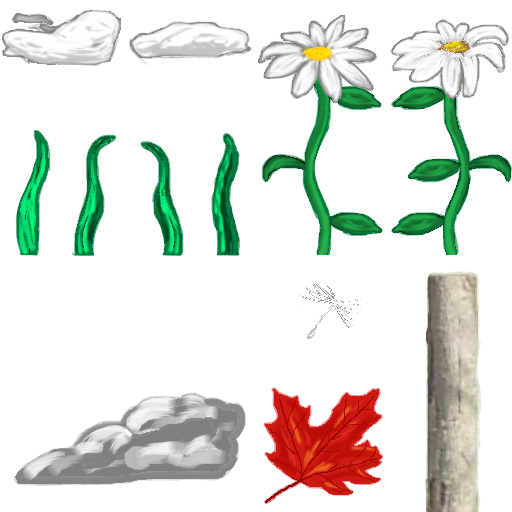
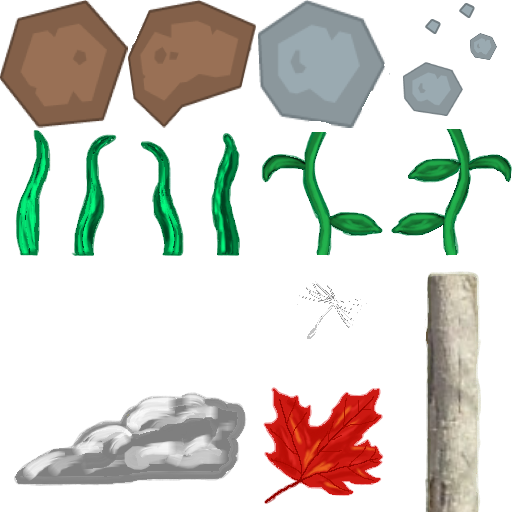
Changed some Tiles/scrolling stuff

Changed region(s): [[0.0, 0.0, 1.0, 0.2812]]

diff --git a/spacewar.cpp b/spacewar.cpp
@@ -185,9 +185,9 @@ void Spacewar::update()
 	
 //==================================================================================================================
 	// SCROLLING STUFF
-	if (mapY >= ScreenTileY) // RECURRING SCROLLING
+	if (mapY >= GAME_HEIGHT) // RECURRING SCROLLING
 	{
-		mapY = -TEXTURE_SIZE*MAP_HEIGHT;
+		mapY = -TEXTURE_SIZE*MAP_HEIGHT-128;
 	}
 	//						Vertical "Scrolling"
 	shipy = ship1.getY();
@@ -196,7 +196,7 @@ void Spacewar::update()
 		ship1.setY(GAME_HEIGHT/2 -1);	// Checks ship at about half GAME_HEIGHT
 		if (input->isKeyDown(VK_UP))	// Checks MovementKey(UP) pressed
 		{
-			mapY -= ship1.getVelocity().y * frameTime;	// Scroll at fastest speed
+			mapY -= ship1.getVelocity().y * frameTime*3;	// Scroll at fastest speed
 		}
 		else	// If NOT pressing UP while at about half GAME_HEIGHT
 		{
@@ -269,7 +269,23 @@ void Spacewar::render()
 {
     graphics->spriteBegin();                // begin drawing sprites
 
-    background.draw();                          // add the to the scene
+	//==================================================================================================================
+	// DRAW "TILES"
+	for (int col = 0; col < MAP_WIDTH; col++)       // for each column of map
+	{
+		tile.setX((float)(col * TEXTURE_SIZE)); // set tile X
+		for (int row = 0; row < MAP_HEIGHT; row++)    // for each row of map
+		{
+			if (tileMap[row][col] >= 0)          // if tile present
+			{
+				tile.setCurrentFrame(tileMap[row][col]);    // set tile texture
+				tile.setY((float)(row * TEXTURE_SIZE) + mapY);   // set tile Y
+				// if tile on screen
+				if (tile.getY() > -TEXTURE_SIZE && tile.getY() < GAME_HEIGHT)
+					tile.draw();                // draw tile
+			}
+		}
+	}
 
 	//==================================================================================================================
 	if (ship1.getActive())
@@ -298,24 +314,6 @@ void Spacewar::render()
 		bullet_collection.push_back(new Bullet());
 		bullet.initialize(this, shipNS::WIDTH, shipNS::HEIGHT, shipNS::TEXTURE_COLS, &gameTextures);
 	} 
-
-	//==================================================================================================================
-	// DRAW "TILES"
-	for (int col = 0; col < MAP_WIDTH; col++)       // for each column of map
-	{
-		tile.setX((float)(col * TEXTURE_SIZE)); // set tile X
-		for (int row = 0; row < MAP_HEIGHT; row++)    // for each row of map
-		{
-			if (tileMap[row][col] >= 0)          // if tile present
-			{
-				tile.setCurrentFrame(tileMap[row][col]);    // set tile texture
-				tile.setY((float)(row * TEXTURE_SIZE) + mapY);   // set tile Y
-				// if tile on screen
-				if (tile.getY() > -TEXTURE_SIZE && tile.getY() < GAME_HEIGHT)
-					tile.draw();                // draw tile
-			}
-		}
-	}
 
     graphics->spriteEnd();                  // end drawing sprites
 }

diff --git a/spacewar.h b/spacewar.h
@@ -22,21 +22,21 @@ namespace spaceWarNS
 	const int __ = -1;                  // empty tile
 
 	const int tileMap[MAP_HEIGHT][MAP_WIDTH] = { // TILEMAP
-		4,4,4,4,__,		//Starting row
+		3,__,__,1,__,		//Starting row
+		__,__,3,__,__,
 		__,__,__,__,__,
-		__,__,__,__,__,
-		__,__,__,__,__,
+		__,0,__,__,__,
 		__,__,__,__,__,	//Row 5
-		__,__,1,__,__,
+		__,__,2,__,__,
+		__,__,1,__,2,
 		__,__,__,__,__,
+		__,0,__,__,__,
+		__,__,__,__,__,	//Row 10
+		__,__,__,1,__,
 		__,__,__,__,__,
-		__,__,__,__,1,
-		__,__,__,1,1,	//Row 10
-		__,__,__,__,__,
-		__,__,__,__,__,
-		__,__,__,__,__,
-		__,__,__,__,__,
-		3,3,3,3,3,		//Row 15
+		__,__,2,__,__,
+		__,1,__,__,__,
+		0,__,__,__,3		//Row 15
 	};
 }
 
